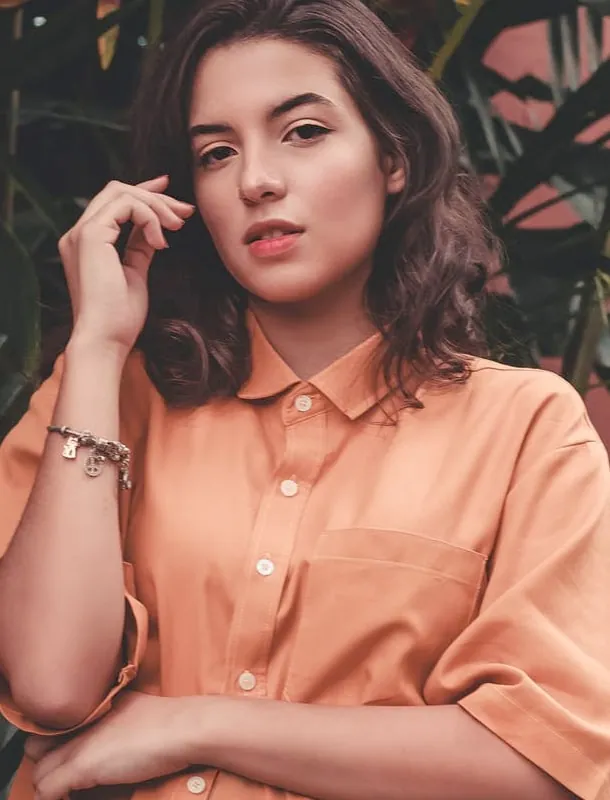
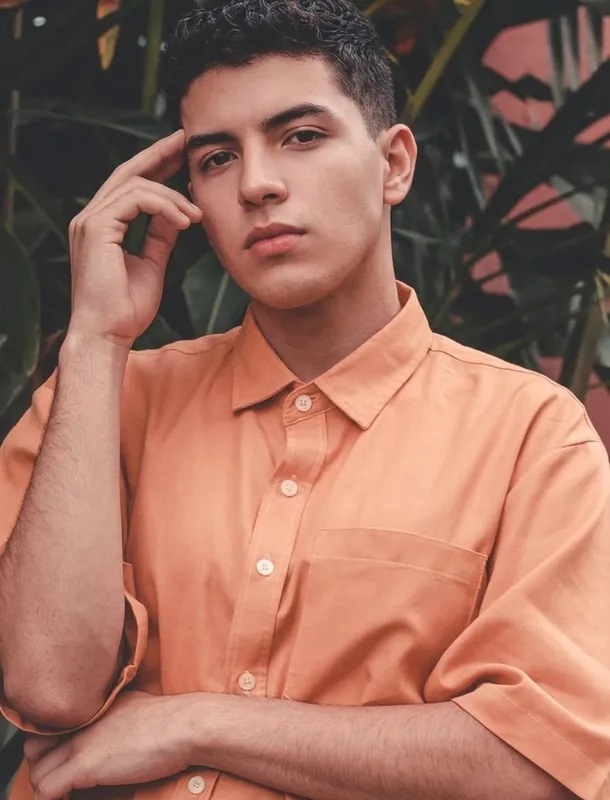
Update README.md and globals.css for improved accessibility and styling; replace hero images

diff --git a/src/app/globals.css b/src/app/globals.css
@@ -1,12 +1,52 @@
 @import "tailwindcss";
 @source not "../../*.md";
 
+@theme {
+  --color-desaturated-red: #c17d7d;
+  --color-desaturated-red-dark: #af5757;
+  --color-dark-grayish-red: #423a3a;
+  --color-soft-red: #ce3b43;
+  --color-field-border: #a38989;
+  --color-brand-from: #f8bfbf;
+  --color-brand-to: #ee8b8b;
+  --color-page-to: #fff4f4;
+
+  --text-note: 0.8125rem;
+  --text-note--line-height: 1;
+  --text-body: 0.875rem;
+  --text-body--line-height: 1.375rem;
+  --text-body-lg: 1rem;
+  --text-body-lg--line-height: 1.75rem;
+  --text-heading: 2.5rem;
+  --text-heading--line-height: 2.625rem;
+  --text-heading-lg: 4rem;
+  --text-heading-lg--line-height: 4.4375rem;
+
+  --tracking-heading: 0.27em;
+
+  --shadow-btn: 0 0.9375rem 0.9375rem rgb(203 131 120 / 0.25);
+  --shadow-btn-hover: 0 0.9375rem 0.9375rem rgb(203 131 120 / 0.5);
+}
+
 @theme inline {
   --font-sans: var(--font-josefin-sans);
 }
 
 @layer base {
   body {
-    @apply font-sans;
+    @apply bg-linear-135/srgb from-white to-page-to font-sans text-body-lg text-desaturated-red-dark;
   }
+  a,
+  button,
+  input {
+    @apply v-focus-ring;
+  }
+}
+
+@utility v-focus-ring {
+  @apply focus-visible:outline-2 focus-visible:outline-offset-2 focus-visible:outline-dark-grayish-red;
+}
+
+@utility v-brand-gradient {
+  @apply bg-linear-135/srgb from-brand-from to-brand-to;
 }

diff --git a/README.md b/README.md
@@ -1,29 +1,99 @@
-# Frontend Mentor — Base Apparel coming soon page
+# Frontend Mentor - Base Apparel coming soon page solution
 
-A solution to the [Base Apparel coming soon page challenge on Frontend Mentor](https://www.frontendmentor.io/challenges/base-apparel-coming-soon-page-5d46b47f8db8a7063f9331a0), rebuilt from scratch.
+This is a solution to the [Base Apparel coming soon page challenge on Frontend Mentor](https://www.frontendmentor.io/challenges/base-apparel-coming-soon-page-5d46b47f8db8a7063f9331a0). Frontend Mentor challenges help you improve your coding skills by building realistic projects.
+
+## Table of contents
+
+- [Overview](#overview)
+  - [Screenshot](#screenshot)
+  - [Links](#links)
+- [My process](#my-process)
+  - [Built with](#built-with)
+  - [Design deviations](#design-deviations)
+- [Author](#author)
 
 ## Overview
 
-Users should be able to:
+### Screenshot
 
-- View the optimal layout depending on their device's screen size
-- See hover and focus states for all interactive elements
-- Receive an error message when the form is submitted with an empty or malformed email address
+![](./screenshot.webp)
 
-## Links
+### Links
 
-- Solution: [GitHub](https://github.com/MrBlackvanta/base-apparel-coming-soon)
+- Solution URL: [GitHub](https://github.com/MrBlackvanta/base-apparel-coming-soon)
+- Live Site URL: [Cloudflare](https://base-apparel-coming-soon.abdelrhman-ahmed8881.workers.dev)
+- Mirror: [Netlify](https://vanta-base-apparel-coming-soon.netlify.app)
 
-## Built with
+## My process
 
-- [Next.js](https://nextjs.org/) — App Router, static export
-- [TypeScript](https://www.typescriptlang.org/)
+### Built with
+
+- [Next.js 16](https://nextjs.org/) (App Router, React Compiler, Turbopack)
+- [React 19](https://react.dev/)
+- [TypeScript](https://www.typescriptlang.org/) (strict)
 - [Tailwind CSS v4](https://tailwindcss.com/)
 
-```
+### Design deviations
+
+**Four colours change, to reach 100 on Lighthouse accessibility.** Every ratio below is
+measured against the backdrop the text actually sits on — the page gradient's dark end,
+`#FFF4F4` — and solved on the rounded 8-bit channels the browser paints, not on floats.
+
+|                             | design    | contrast | shipped   | contrast |
+| --------------------------- | --------- | -------- | --------- | -------- |
+| "WE'RE" (64px / 40px)       | `#CE9898` | 2.28     | `#C17D7D` | 3.00     |
+| Paragraph, placeholder      | `#CE9898` | 2.28     | `#AF5757` | 4.51     |
+| Error border, icon, message | `#F96464` | 2.77     | `#CE3B43` | 4.50     |
+| Input border                | `#E6CCCC` | 1.41     | `#A38989` | 3.00     |
+
+The two pinks keep the original's hue and saturation exactly — both are `hsl(0 36% …)` —
+and differ only in lightness: 62.5% for the heading, which needs 3:1 as large text, and
+51.5% for body copy, which needs 4.5:1. Reading as one two-step scale rather than two
+unrelated colours is the reason for holding the hue line instead of taking the marginally
+closer desaturated match (ΔE 19.8 against 18.2 — a difference of 1.6, which is not worth
+losing the rose character for).
+
+**The placeholder's 50% opacity had to go.** The design paints it as `#CE9898` at half
+strength. At 50% alpha over this background, _no_ colour reaches 4.5:1 — even pure black
+tops out at 3.91:1, because half the backdrop always shows through — so the placeholder
+takes the body-copy colour at full strength rather than becoming a third pink.
+
+**One error red, not two.** `#F96464` fails as a boundary (needs 3:1) and as message text
+(needs 4.5:1). A light red for the 2px border and the icon plus a darker one for the message
+thirty pixels below would read as a mistake rather than a decision, so a single `#CE3B43`
+serves the border, the icon and the message. It costs the border more darkening than it
+strictly needs.
+
+**Nothing else moves.** The white arrow on the pink button is 1.59:1 against the lighter
+gradient stop, and 1.25:1 under the design's hover veil. Darkening it would put a dark glyph
+on the page's one focal element, and axe does not test icon contrast, so it ships as drawn
+with `aria-label="Subscribe"` on the button carrying the meaning for assistive tech. Same
+call for the pill against the page (1.48:1) and the white `!` inside the error circle
+(2.99:1, one hundredth short, with the message beneath it carrying the meaning).
+
+**All five style-guide colours are rounded** and land one to two parts in 255 from the paint
+in the design file, so the palette uses the file's values: Desaturated Red is `#CE9898` not
+`#CE9797`, Soft Red `#F96464` not `#F96262`, Dark Grayish Red `#423A3A` not `#413A3A`, the
+page gradient ends `#FFF4F4` not `#FFF5F5`, and the brand gradient ends `#EE8B8B` not
+`#EE8C8C`. The design also uses two colours the style guide never lists: `#E6CCCC` for the
+input border and a `#FFF1F1` → `#FFFFFF` sweep for the desktop background pattern.
+
+**The desktop heading carries two line-heights, and that is deliberate.** "WE'RE" is
+64px/64px Light and "COMING SOON" is 64px/71px SemiBold — two separate type presets in the
+design. The `COMING SOON` node's own box height disagrees with its line-height (128px, which
+is 2 × 64), so the ink pitch was measured off `desktop-design.jpg` to settle it: cap-tops at
+302 and 373, exactly 71px apart. Mobile is uniform at 40px/42px.
+
+**Heading tracking is `0.27em`, rounding the design's `0.27063em`** — a 0.25px difference
+across the longest word, in exchange for a round number.
+
+**The hero photograph is not the one supplied with the challenge.** It is a different
+photograph of the same wardrobe and pose, cropped to the same two sizes (610×800 and
+375×250) and framed to match the supplied crops, so the layout is unaffected — but the hero
+will not pixel-match the design JPGs.
 
 ## Author
 
-- Frontend Mentor — [@MrBlackvanta](https://www.frontendmentor.io/profile/MrBlackvanta)
-- LinkedIn — [Abdelrhman Abdelaal](https://www.linkedin.com/in/abdelrhman-vanta/)
-```
+- UpWork - [Abdelrhman Abdelaal](https://upwork.com/freelancers/~01f0a9479696b61f49)
+- Frontend Mentor - [@MrBlackvanta](https://www.frontendmentor.io/profile/MrBlackvanta)
+- LinkedIn - [Abdelrhman Abdelaal](https://www.linkedin.com/in/abdelrhman-vanta/)
